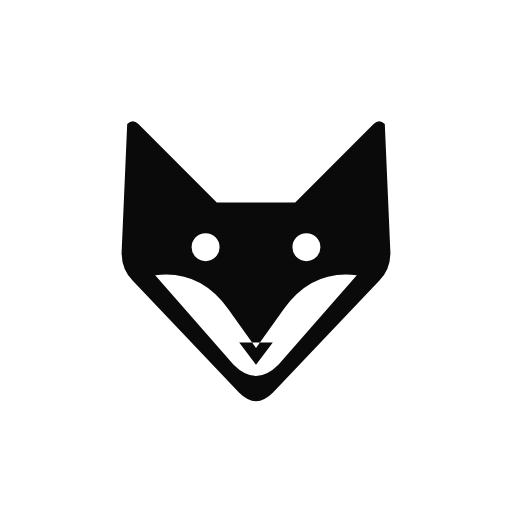
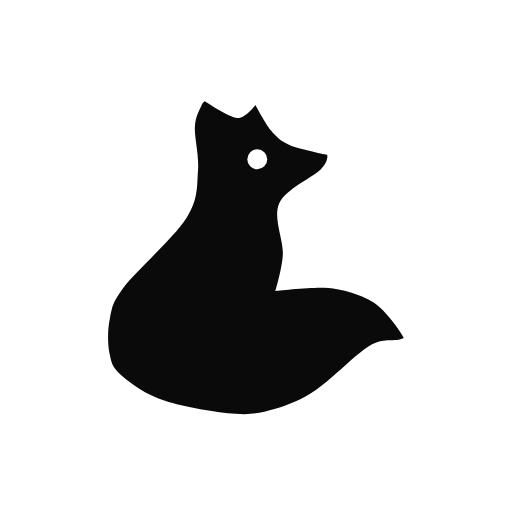
feat(brand): sitting fox mark
Replace the fox head with the sitting-fox silhouette Marco picked (one path,
eye cut out). Same art in BrandMark, EmptyState outline, PWA icons, favicon,
apple-touch icon and the OG image.

Claude-Session: https://claude.ai/code/session_015ob4vseKrSYbt3XPdrmNM3

Changed region(s): [[0.1875, 0.1875, 0.7812, 0.8125]]

diff --git a/src/components/brand-mark.tsx b/src/components/brand-mark.tsx
@@ -1,4 +1,4 @@
-// App mark: the Alopex fox head, drawn in currentColor; eyes and mask are cut out so it
+// App mark: the Alopex sitting fox, drawn in currentColor; the eye is cut out so it
 // sits on any surface (same art as public/icon-*.png).
 export function BrandMark({ className = "" }: { className?: string }) {
   return (
@@ -6,7 +6,7 @@ export function BrandMark({ className = "" }: { className?: string }) {
       <path
         fill="currentColor"
         fillRule="evenodd"
-        d="M9 7Q10 6 11 7L25 21H39L53 7Q54 6 55 7L56 30Q56 33 54 35L35 55Q32 58 29 55L10 35Q8 33 8 30ZM14 34Q22 33 27 40L32 47L37 40Q42 33 50 34L36 50Q32 54 28 50ZM20.5 29a2.5 2.5 0 1 0 5 0a2.5 2.5 0 1 0-5 0ZM38.5 29a2.5 2.5 0 1 0 5 0a2.5 2.5 0 1 0-5 0ZM29 46H35L32 50Z"
+        d="M23.0 8.3 C22.7 9.0 22.1 9.9 22.0 11.6 C21.9 13.3 22.7 16.2 22.5 18.6 C22.3 21.1 22.6 23.2 20.6 26.3 C18.6 29.4 12.7 34.6 10.7 37.2 C8.7 39.9 8.8 40.4 8.4 42.2 C8.0 44.0 8.0 46.3 8.3 47.8 C8.6 49.3 8.7 50.1 10.2 51.4 C11.7 52.7 14.1 54.5 17.2 55.5 C20.2 56.5 25.6 57.4 28.5 57.6 C31.4 57.8 32.7 57.4 34.9 56.8 C37.1 56.1 39.0 55.4 41.5 53.7 C44.0 52.0 47.8 48.0 50.0 46.7 C52.2 45.4 53.9 46.0 54.8 45.7 C55.6 45.4 55.6 45.6 55.1 44.8 C54.6 43.9 52.9 41.7 51.7 40.6 C50.5 39.5 49.2 38.9 47.7 38.4 C46.2 37.9 44.8 37.5 42.7 37.4 C40.6 37.3 34.9 37.9 34.9 37.9 C34.9 37.9 36.0 34.3 36.1 32.0 C36.2 29.7 34.5 26.2 35.5 23.9 C36.5 21.6 40.9 19.7 42.2 18.4 C43.5 17.1 43.2 16.1 43.2 16.1 C43.2 16.1 38.8 15.2 37.3 14.6 C35.8 13.9 35.1 13.3 34.2 12.2 C33.3 11.1 31.7 8.1 31.7 8.1 C31.7 8.1 30.1 10.3 28.8 10.2 C27.5 10.1 23.6 7.5 23.6 7.5 C23.6 7.5 23.3 7.6 23.0 8.3ZM30.4 16.8a1.6 1.6 0 1 0 3.2 0a1.6 1.6 0 1 0-3.2 0Z"
       />
     </svg>
   );

diff --git a/src/components/empty-state.tsx b/src/components/empty-state.tsx
@@ -1,9 +1,9 @@
 import type { ReactNode } from "react";
 
-// Outline fox: the BrandMark path, stroke only. Rule: never beside an amount or inside a
+// Outline fox: the BrandMark silhouette, stroke only. Rule: never beside an amount or inside a
 // chart; at most one fox per viewport.
 const FOX_PATH =
-  "M9 7Q10 6 11 7L25 21H39L53 7Q54 6 55 7L56 30Q56 33 54 35L35 55Q32 58 29 55L10 35Q8 33 8 30ZM14 34Q22 33 27 40L32 47L37 40Q42 33 50 34L36 50Q32 54 28 50ZM20.5 29a2.5 2.5 0 1 0 5 0a2.5 2.5 0 1 0-5 0ZM38.5 29a2.5 2.5 0 1 0 5 0a2.5 2.5 0 1 0-5 0ZM29 46H35L32 50Z";
+  "M23.0 8.3 C22.7 9.0 22.1 9.9 22.0 11.6 C21.9 13.3 22.7 16.2 22.5 18.6 C22.3 21.1 22.6 23.2 20.6 26.3 C18.6 29.4 12.7 34.6 10.7 37.2 C8.7 39.9 8.8 40.4 8.4 42.2 C8.0 44.0 8.0 46.3 8.3 47.8 C8.6 49.3 8.7 50.1 10.2 51.4 C11.7 52.7 14.1 54.5 17.2 55.5 C20.2 56.5 25.6 57.4 28.5 57.6 C31.4 57.8 32.7 57.4 34.9 56.8 C37.1 56.1 39.0 55.4 41.5 53.7 C44.0 52.0 47.8 48.0 50.0 46.7 C52.2 45.4 53.9 46.0 54.8 45.7 C55.6 45.4 55.6 45.6 55.1 44.8 C54.6 43.9 52.9 41.7 51.7 40.6 C50.5 39.5 49.2 38.9 47.7 38.4 C46.2 37.9 44.8 37.5 42.7 37.4 C40.6 37.3 34.9 37.9 34.9 37.9 C34.9 37.9 36.0 34.3 36.1 32.0 C36.2 29.7 34.5 26.2 35.5 23.9 C36.5 21.6 40.9 19.7 42.2 18.4 C43.5 17.1 43.2 16.1 43.2 16.1 C43.2 16.1 38.8 15.2 37.3 14.6 C35.8 13.9 35.1 13.3 34.2 12.2 C33.3 11.1 31.7 8.1 31.7 8.1 C31.7 8.1 30.1 10.3 28.8 10.2 C27.5 10.1 23.6 7.5 23.6 7.5 C23.6 7.5 23.3 7.6 23.0 8.3ZM30.4 16.8a1.6 1.6 0 1 0 3.2 0a1.6 1.6 0 1 0-3.2 0Z";
 
 export function EmptyState({
   title,
